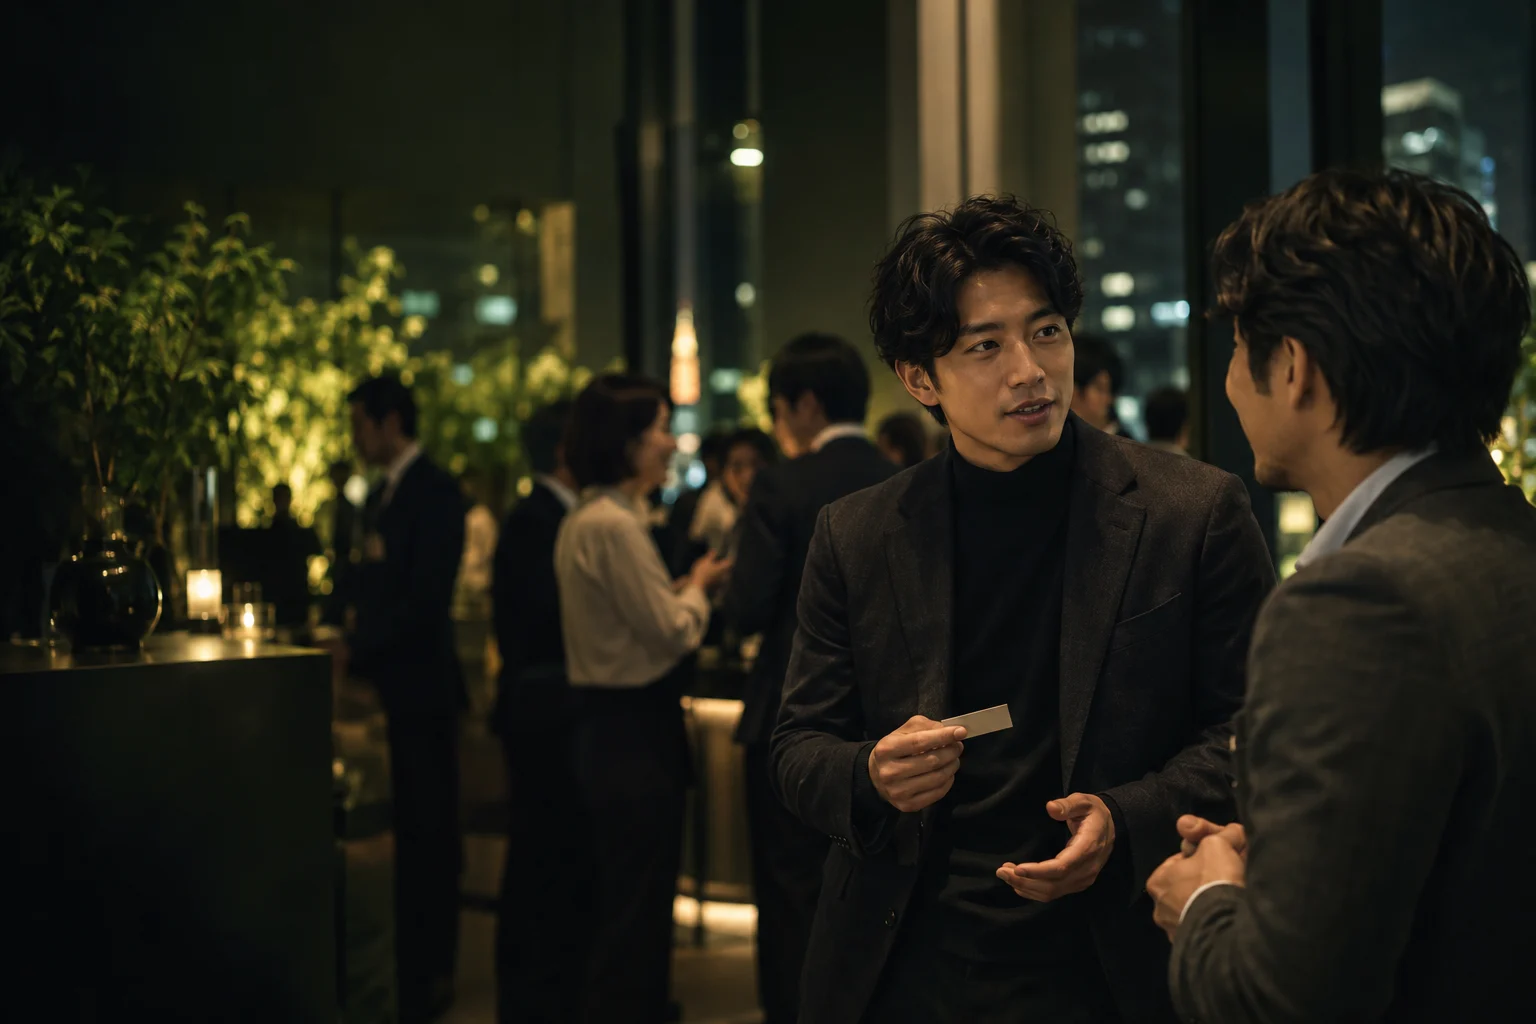
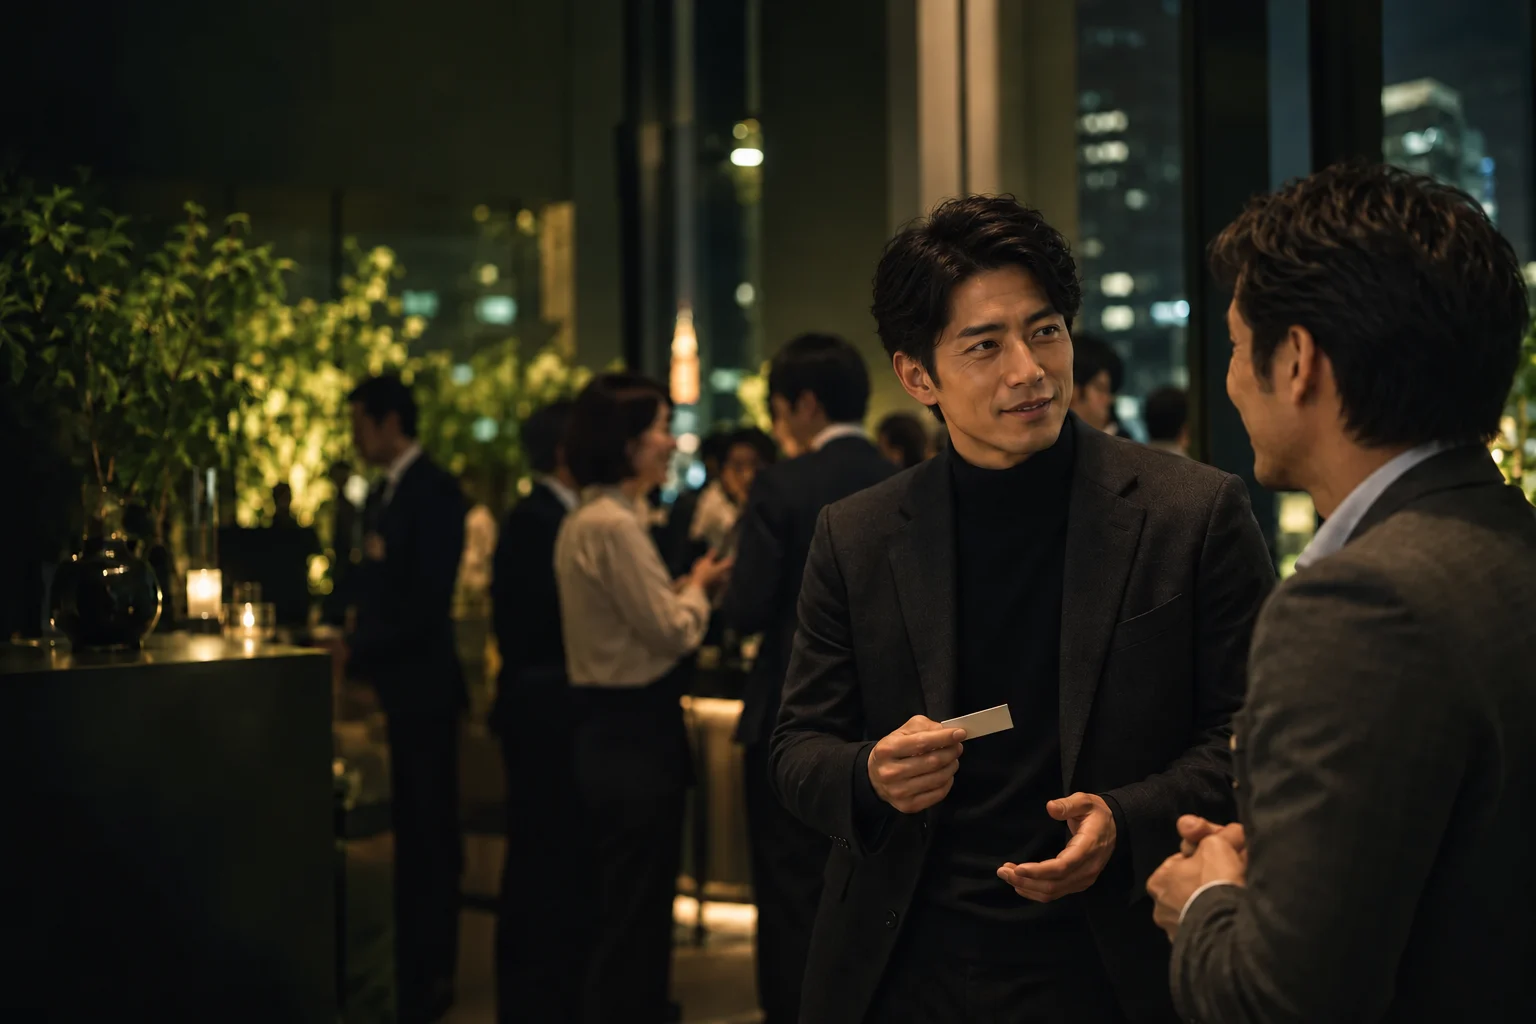
Revise sales agency LP for side-business audience

diff --git a/ai-sales-agency-starter/index.html b/ai-sales-agency-starter/index.html
@@ -3,22 +3,22 @@
 <head>
   <meta charset="utf-8">
   <meta name="viewport" content="width=device-width, initial-scale=1">
-  <meta name="description" content="手元の名刺と交流会でもらう名刺を台帳化し、関係づくり、紹介、営業顧問の提案まで。Codexで動く12個のAIエージェントが、人脈を営業代行事業へ育てます。">
+  <meta name="description" content="本業を続けながら、誰でも営業代行会社を始められる。名刺の台帳化から関係づくり、紹介、営業顧問の提案まで、12個のAIエージェントが副業の一歩を支えます。">
   <meta name="theme-color" content="#08150f">
   <meta name="robots" content="noindex, nofollow">
-  <title>出会いを、営業会社に変える。｜AI営業代行会社スタートパック</title>
+  <title>誰でも、営業代行会社になれる。｜AI営業代行会社スタートパック</title>
   <link rel="canonical" href="https://writeup-inc.github.io/saas/ai-sales-agency-starter/">
   <link rel="icon" href="/saas/favicon.svg">
   <meta property="og:type" content="website">
   <meta property="og:locale" content="ja_JP">
   <meta property="og:site_name" content="AI営業代行会社スタートパック">
-  <meta property="og:title" content="出会いを、営業会社に変える。">
-  <meta property="og:description" content="名刺を撮り、台帳化する。そこから12個のAIエージェントと始める営業代行事業。">
+  <meta property="og:title" content="誰でも、営業代行会社になれる。">
+  <meta property="og:description" content="会社員の副業から。名刺を撮り、台帳化し、12個のAIエージェントと始める営業代行事業。">
   <meta property="og:url" content="https://writeup-inc.github.io/saas/ai-sales-agency-starter/">
   <meta property="og:image" content="https://writeup-inc.github.io/saas/ai-sales-agency-starter/og-card.svg">
   <meta name="twitter:card" content="summary_large_image">
-  <meta name="twitter:title" content="出会いを、営業会社に変える。">
-  <meta name="twitter:description" content="名刺を台帳化し、人脈を紹介と継続収益へ。12個のAIエージェントで始める営業代行事業。">
+  <meta name="twitter:title" content="誰でも、営業代行会社になれる。">
+  <meta name="twitter:description" content="本業を続けながら、人脈を紹介と継続収益へ。12個のAIエージェントで始める営業代行事業。">
   <meta name="twitter:image" content="https://writeup-inc.github.io/saas/ai-sales-agency-starter/og-card.svg">
   <link rel="preload" as="image" href="./hero-network.webp" type="image/webp" fetchpriority="high">
   <style>
@@ -138,10 +138,10 @@
     .hero::before { content: ""; position: absolute; inset: 0; z-index: -1; pointer-events: none; opacity: .17; background-image: radial-gradient(rgba(255,255,255,.32) .65px,transparent .65px); background-size: 6px 6px; mix-blend-mode: soft-light; }
     .hero::after { content: ""; position: absolute; inset: auto 0 0; height: 9px; background: linear-gradient(90deg,var(--lime) 0 44%,var(--blue) 44% 70%,var(--coral) 70%); }
     .hero-grid { position: relative; min-height: 694px; display: flex; align-items: center; }
-    .hero-copy { position: relative; z-index: 2; width: min(640px,58%); }
+    .hero-copy { position: relative; z-index: 2; width: min(700px,61%); }
     .eyebrow { width: fit-content; display: flex; align-items: center; gap: 12px; margin: 0 0 26px; padding: 8px 13px; border: 1px solid rgba(255,255,255,.14); border-radius: 999px; color: var(--lime); background: rgba(8,21,15,.38); backdrop-filter: blur(10px); font-size: 10px; font-weight: 900; letter-spacing: .14em; }
     .eyebrow::before { content: ""; width: 28px; height: 2px; background: currentColor; }
-    h1 { margin: 0; font-size: clamp(60px,7.25vw,100px); font-weight: 950; line-height: .93; letter-spacing: -.075em; text-shadow: 0 8px 40px rgba(0,0,0,.28); }
+    h1 { margin: 0; font-size: clamp(58px,6.65vw,92px); font-weight: 950; line-height: .93; letter-spacing: -.075em; text-shadow: 0 8px 40px rgba(0,0,0,.28); }
     h1 em { color: var(--lime); font-style: normal; }
     .hero-lead { max-width: 610px; margin: 30px 0 0; color: rgba(255,255,255,.76); font-size: clamp(16px,1.75vw,19px); text-shadow: 0 2px 20px rgba(0,0,0,.42); }
     .hero-lead strong { color: white; }
@@ -340,7 +340,7 @@
       .hero { min-height: 800px; padding: 102px 0 54px; background-image: linear-gradient(0deg,rgba(5,17,11,.99) 0%,rgba(5,17,11,.92) 49%,rgba(5,17,11,.34) 83%),url("./hero-network.webp"); background-position: 64% top; background-size: auto 100%; }
       .hero-grid { min-height: 644px; align-items: flex-end; padding-bottom: 132px; }
       .hero-copy { width: 100%; }
-      h1 { font-size: clamp(50px,15.5vw,64px); }
+      h1 { font-size: clamp(44px,13vw,54px); }
       .hero-lead { margin-top: 24px; }
       .button-primary, .button-secondary { width: 100%; }
       .hero-photo-note { right: auto; bottom: 2px; left: 0; width: min(100%,310px); padding: 16px 18px; }
@@ -388,18 +388,18 @@
     <section class="hero" id="top">
       <div class="container hero-grid">
         <div class="hero-copy">
-          <p class="eyebrow">PEOPLE × CODEX × SALES</p>
-          <h1><span class="title-line">出会いを、</span><span class="title-line"><em>営業会社</em>に</span><span class="title-line">変える。</span></h1>
-          <p class="hero-lead"><strong>会う。残す。見つける。つなぐ。</strong> 名刺と会話をCodexに預け、相性のよい二社を見つけ、人の確認を経て紹介する。人脈を育てながら営業支援事業を始めるスターターパックです。</p>
+          <p class="eyebrow">SIDE BUSINESS × AI × SALES</p>
+          <h1><span class="title-line">誰でも、</span><span class="title-line"><em>営業代行会社</em></span><span class="title-line">になれる。</span></h1>
+          <p class="hero-lead"><strong>会社を辞めなくていい。</strong> 本業を続けながら、会う。残す。見つける。つなぐ。名刺と会話をAIに預け、人の確認を経て紹介する。経験よりも人との関係を大切にできる人のための、営業代行会社スタートパックです。</p>
           <div class="hero-actions">
             <a class="button-primary" href="#flow">始め方を3分で見る <span aria-hidden="true">↓</span></a>
             <a class="button-secondary" href="#simulator">月の売上を試算する</a>
           </div>
-          <ul class="hero-facts"><li>副業・新規事業から</li><li>月5万円・年間60万円</li><li>12個のAIを毎月更新</li></ul>
+          <ul class="hero-facts"><li>会社員の副業から</li><li>月5万円・年間60万円</li><li>12個のAIを毎月更新</li></ul>
         </div>
         <div class="hero-photo-note" aria-label="名刺から紹介候補へ進む流れ">
           <small>THE FIRST CONNECTION</small>
-          <strong>まだ名前のない仕事は、会話の中にある。</strong>
+          <strong>本業の外に、もう一つの会社を持つ。</strong>
           <span>名刺 → 台帳 → 紹介候補</span>
         </div>
       </div>
@@ -407,8 +407,8 @@
 
     <section class="emotion" aria-label="サービスコンセプト">
       <div class="container emotion-grid">
-        <p class="emotion-quote">人脈は、名刺の枚数じゃない。<br><em>覚えて、つなぐ力</em>だ。</p>
-        <p class="emotion-copy">会った人を忘れない。必要な人を、必要な人へつなぐ。その積み重ねを12個のAIが静かに支え、あなた自身の営業代行事業へ育てます。</p>
+        <p class="emotion-quote">会社員のまま、<br><em>次の会社</em>を始める。</p>
+        <p class="emotion-copy">特別な商品も、大きなオフィスもいりません。これまで出会った人を忘れず、必要な人を必要な人へつなぐ。その積み重ねを12個のAIが支え、あなた自身の営業代行会社へ育てます。</p>
       </div>
     </section>
 
@@ -417,7 +417,7 @@
         <div class="process-head">
           <p class="section-kicker">HOW IT STARTS</p>
           <h2 class="section-title"><span class="title-line">最初の仕事は、</span><span class="title-line">名刺を撮ること。</span></h2>
-          <p class="section-lead">交流会でもらう新しい名刺も、これまで手元にためてきた名刺も、まず一つの台帳へ。ここからすべてが始まります。</p>
+          <p class="section-lead">仕事帰りの交流会でもらう新しい名刺も、これまで手元にためてきた名刺も、まず一つの台帳へ。副業の最初の仕事は、ここから始まります。</p>
         </div>
         <figure class="capture-story" aria-label="交流会でもらった名刺を撮影して台帳化するイメージ">
           <div class="capture-photo">
@@ -426,7 +426,7 @@
           </div>
           <figcaption class="capture-copy">
             <span class="start-badge">01 / FIRST MOVE</span>
-            <div class="start-copy"><strong><span class="start-line">交流会から帰ったら、</span><span class="start-line">名刺をパシャ。</span></strong><p>会社名、氏名、役職、会話メモを整理し、人が確認した情報から一つの台帳へ。次に会う人も、これまで会った人も、ここからつながり始めます。</p></div>
+            <div class="start-copy"><strong><span class="start-line">仕事帰りに会って、</span><span class="start-line">名刺をパシャ。</span></strong><p>会社名、氏名、役職、会話メモを整理し、人が確認した情報から一つの台帳へ。平日の夜や週末の小さな活動が、営業代行会社の土台になります。</p></div>
             <div class="card-sources"><span>いままでの名刺</span><span>交流会の新しい名刺</span></div>
           </figcaption>
         </figure>
@@ -445,8 +445,8 @@
     <section class="section revenue" id="model">
       <div class="container">
         <p class="section-kicker">THREE-STAGE REVENUE</p>
-        <h2 class="section-title"><span class="title-line">小さく始めて、</span><span class="title-line">継続収益へ。</span></h2>
-        <p class="section-lead">最初から大きな顧問契約だけを狙わない。セミナー集客で接点をつくり、紹介で価値を示し、継続支援へ進む三段設計です。</p>
+        <h2 class="section-title"><span class="title-line">副業の一件目から、</span><span class="title-line">継続収益へ。</span></h2>
+        <p class="section-lead">最初から大きな顧問契約だけを狙わない。セミナー集客で最初の収益機会をつくり、紹介で価値を示し、継続支援へ進む副業向けの三段設計です。</p>
         <div class="rocket">
           <article class="rocket-card"><span class="rocket-no">1</span><small>FIRST CASH</small><h3>セミナー集客</h3><div class="rocket-price">3,000<span>円 / 1集客</span></div><p>ライトアップのAIサービスセミナーを案内。参加につながったときの紹介報酬を、最初の収益機会に。</p></article>
           <article class="rocket-card"><span class="rocket-no">2</span><small>MATCHING</small><h3>経営者マッチング</h3><div class="rocket-price">10,000<span>円 / 1件</span></div><p>相性のよい2社を選び、双方の合意を得て紹介。関係づくりそのものをサービスにします。</p></article>
@@ -462,7 +462,7 @@
           <div><p class="section-kicker">12 CODEX SKILLS</p><h2 class="section-title"><span class="title-line">12個のAIエージェントを</span><span class="title-line">4つの仕事にまとめました。</span></h2></div>
           <div class="skills-count" aria-label="12個のAIエージェント"><div><strong>12</strong><span>AI AGENTS</span></div></div>
         </div>
-        <p class="section-lead">名刺を台帳にするAIから、相性を探すAI、紹介を支えるAI、継続収益へ育てるAIまで。事業の時系列に沿って働きます。</p>
+        <p class="section-lead">名刺を台帳にするAIから、相性を探すAI、紹介を支えるAI、継続収益へ育てるAIまで。限られた副業時間でも迷わないよう、事業の時系列に沿って働きます。</p>
         <ol class="agent-path" aria-label="12個のAIエージェントが担当する4つの仕事の順番"><li><span>STEP 1</span>名刺を台帳化</li><li><span>STEP 2</span>相性を検索</li><li><span>STEP 3</span>紹介を支援</li><li><span>STEP 4</span>継続支援へ</li></ol>
         <div class="skill-groups">
           <article class="skill-group">
@@ -505,7 +505,7 @@
     <section class="section simulator" id="simulator">
       <div class="container">
         <p class="section-kicker">MONTHLY SIMULATOR</p>
-        <h2 class="section-title"><span class="title-line">月5万円を、</span><span class="title-line">どう超えるか。</span></h2>
+        <h2 class="section-title"><span class="title-line">副業で月5万円を、</span><span class="title-line">どう超えるか。</span></h2>
         <p class="section-lead">件数を動かして、月間の売上イメージを確認できます。結果はあくまで単純試算です。</p>
         <div class="sim-grid">
           <div class="sim-controls">
@@ -533,8 +533,8 @@
     <section class="section investment" id="price">
       <div class="container">
         <p class="section-kicker">STARTER INVESTMENT</p>
-        <h2 class="section-title"><span class="title-line">月5万円で、</span><span class="title-line">営業OSを育てる。</span></h2>
-        <p class="section-lead">1年間なら投資額は60万円。単月黒字を目指しながら、出会いと関係の記録を、自分の次の事業にも使える資産へ変えていきます。</p>
+        <h2 class="section-title"><span class="title-line">本業を続けながら、</span><span class="title-line">営業OSを育てる。</span></h2>
+        <p class="section-lead">月5万円、1年間なら投資額は60万円。単月黒字を目指しながら、出会いと関係の記録を、自分の次の事業にも使える資産へ変えていきます。</p>
         <div class="price-box">
           <div class="price-main"><small>AI営業代行会社スタートパック</small><strong>5<span>万円 / 月</span></strong><p>12か月利用した場合：60万円<br>※税区分・最低利用期間・開始時期は要確認</p></div>
           <div class="price-detail">
@@ -546,7 +546,7 @@
         </div>
         <div class="asset-panel">
           <h3><span class="title-line">1年でやめても、</span><span class="title-line">人脈は残る。</span></h3>
-          <div class="asset-list"><div><strong>名刺資産</strong><span>会った人が整理されて残る</span></div><div><strong>関係資産</strong><span>会話とフォローの履歴が残る</span></div><div><strong>事業資産</strong><span>次の新規事業にもつなげられる</span></div></div>
+          <div class="asset-list"><div><strong>名刺資産</strong><span>会った人が整理されて残る</span></div><div><strong>関係資産</strong><span>会話とフォローの履歴が残る</span></div><div><strong>事業資産</strong><span>副業の次の展開にもつなげられる</span></div></div>
         </div>
       </div>
     </section>
@@ -555,7 +555,7 @@
       <div class="container faq">
         <div><p class="section-kicker">FAQ</p><h2 class="section-title"><span class="title-line">始める前に、</span><span class="title-line">知ること。</span></h2></div>
         <div class="faq-list">
-          <details><summary>本当に営業未経験でも始められますか？</summary><p>提案文や紹介文はAIが支援しますが、相手に会う、話を聞く、約束を守るのは人の仕事です。「誰でも」は、経験よりも関係づくりを続ける意思がある方を想定しています。</p></details>
+          <details><summary>会社員の副業でも始められますか？</summary><p>はい、その始め方を想定しています。提案文や紹介文はAIが支援しますが、相手に会う、話を聞く、約束を守るのは人の仕事です。「誰でも」は、営業経験よりも、関係づくりを無理なく続ける意思がある方を指しています。勤務先の副業規定は事前に確認してください。</p></details>
           <details><summary>AIが勝手にメールを送りますか？</summary><p>いいえ。初期運用ではAIが下書きと候補抽出を行い、宛先・内容・タイミングを本人が確認してから送信します。自動送信は権限、同意、停止条件を整えた範囲でのみ検討します。</p></details>
           <details><summary>名刺や会話の情報はどこに保存されますか？</summary><p>利用環境によって異なるため要確認です。登録前に保管先、アクセス権、削除方法、第三者提供の有無を定め、相手との約束と個人情報保護のルールに沿って運用します。</p></details>
           <details><summary>必ず月5万円以上の利益が出ますか？</summary><p>保証はありません。収益は出会う人数、紹介の質、稼働時間、地域、商材、顧問契約などで変わります。試算機は事業の構造を考えるための目安です。</p></details>
@@ -565,7 +565,7 @@
     </section>
 
     <section class="final-cta">
-      <div class="container final-grid"><h2><span class="title-line">次に会う一人から、</span><span class="title-line">事業を始めよう。</span></h2><a class="button-primary" href="https://writeup.jp/contact/" target="_blank" rel="noopener">AI営業代行会社の話を聞く <span aria-hidden="true">↗</span></a></div>
+      <div class="container final-grid"><h2><span class="title-line">会社を辞める前に、</span><span class="title-line">会社を始めよう。</span></h2><a class="button-primary" href="https://writeup.jp/contact/" target="_blank" rel="noopener">副業での始め方を聞く <span aria-hidden="true">↗</span></a></div>
     </section>
   </main>
   <footer class="site-footer"><div class="container footer-inner"><span>AI営業代行会社スタートパック｜企画検討用LP</span><span>© Writeup Co., Ltd.</span></div></footer>
